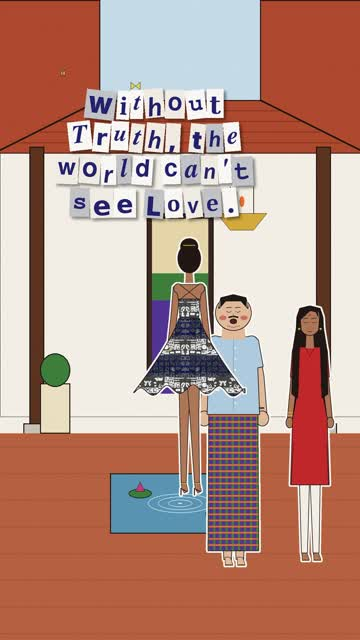
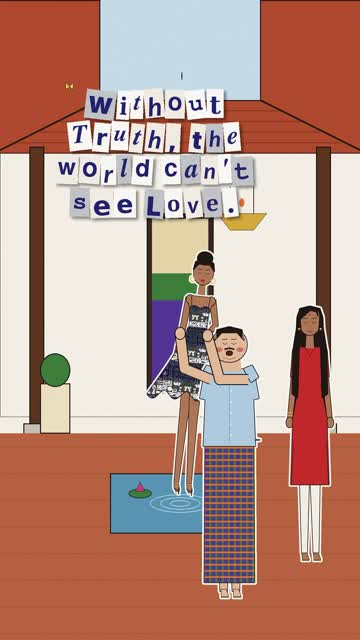
Reel 5: Dad lifts and twirls her, arms at her waist
Claude-Session: https://claude.ai/code/session_019PesBxQ4KYYmVcRBkqjBo9

Changed region(s): [[0.3667, 0.3438, 0.7639, 0.9375], [0.3667, 0.125, 0.3972, 0.1562], [0.1833, 0.125, 0.2139, 0.1562]]

diff --git a/reel5/render.py b/reel5/render.py
@@ -24,7 +24,7 @@ def q(x, s): return round(x / s) * s
 def girl(view, flare, spin, coat=None): return K.girl(view, flare, spin, coat)
 @lru_cache(maxsize=8)
 def BOY(w): return boy(w)
-MUM = elder("mum"); DAD = elder("dad"); DAD_L = elder("dad", True)
+MUM = elder("mum"); DAD = elder("dad"); DAD_L = elder("dad", True); DAD_UP = elder("dad", True, True)
 
 def heart(d, x, y, r, col=RED):
     d.ellipse((x - r, y - r * 0.7, x, y + r * 0.3), fill=col); d.ellipse((x, y - r * 0.7, x + r, y + r * 0.3), fill=col)
@@ -255,23 +255,48 @@ def shot_house(t):                                    # 32 - 36: out of the cab,
     paste(img, g, lerp(380, 540, k), lerp(1500, 1190, k) + 8 * abs(math.sin(u * 8)), scale=lerp(0.66, 0.38, k))
     return img
 
-def shot_court(t):                                    # 36 - 44: she runs to Dad; he lifts and twirls her
+@lru_cache(maxsize=64)
+def lifted(step):
+    """Dad holding her up by the waist, the pair as one cut-out; step 0..23 around the twirl."""
+    ang = step / 24 * 2 * math.pi
+    g = girl("front", 1.4, (step / 24) % 1)
+    dad = DAD_UP
+    grp = Image.new("RGBA", (1100, 2100), (0, 0, 0, 0))
+    dx0, dy0 = 600, 760                                            # Dad's cut-out (292 x 1249) in the group
+    P_ = lambda x, y: (dx0 + x, dy0 + y)
+    gs = g.resize((int(g.width * 0.86), int(g.height * 0.86)), Image.LANCZOS).rotate(-6, expand=True, resample=Image.BICUBIC)
+    wx, wy = P_(-20, 0)                                            # her waist: up beside his head, as in Della's photo
+    grp.alpha_composite(gs, (int(wx - gs.width / 2), int(wy - gs.height * 0.31)))
+    grp.alpha_composite(dad, (dx0, dy0))
+    d = ImageDraw.Draw(grp); SK = (228, 188, 156)
+    for pts in ([P_(62, 250), P_(-60, 200), P_(-80, 40)], [P_(230, 250), P_(100, 250), P_(45, 50)]):
+        for (x0, y0), (x1, y1) in zip(pts, pts[1:]):
+            d.line((x0, y0, x1, y1), fill=OUT, width=50)
+        for x, y in pts[1:-1]: d.ellipse((x - 25, y - 25, x + 25, y + 25), fill=OUT)
+        for (x0, y0), (x1, y1) in zip(pts, pts[1:]):
+            d.line((x0, y0, x1, y1), fill=SK, width=42)
+        for x, y in pts[1:-1]: d.ellipse((x - 21, y - 21, x + 21, y + 21), fill=SK)
+        hx, hy = pts[-1]
+        d.ellipse((hx - 25, hy - 29, hx + 25, hy + 29), fill=SK, outline=OUT, width=4)
+    sx = max(0.3, abs(math.cos(ang)))
+    out = grp.resize((max(1, int(grp.width * sx)), grp.height), Image.LANCZOS)
+    if math.cos(ang) < 0: out = out.transpose(Image.FLIP_LEFT_RIGHT)
+    return out
+
+def shot_court(t):                                    # 36 - 44: she runs to Dad; he picks her up and twirls her
     u = t - 36.0
     img = courtyard_live(COURT.copy(), t).convert("RGBA")
     paste(img, MUM, 930, 1300, scale=0.62)
-    run = ramp(u, 0.0, 1.4)
-    lift = ramp(u, 1.4, 2.2) * (1 - ramp(u, 6.6, 7.6))
-    spin_on = 1.9 < u < 7.0
-    paste(img, DAD_L if spin_on and int(u * 5) % 2 else DAD, 700, 1290, scale=0.66)
-    ang = (u - 1.9) * 2.2 * math.pi if spin_on else 0.0
-    view = "front" if math.cos(ang) >= 0 else "back"
-    flare = q(1.0 + 0.7 * lift, 0.1)
-    g = girl(view, flare, q((ang / 6.28) % 1, 1 / 12))
-    sx = max(0.35, abs(math.cos(ang)) ** 0.5) if spin_on else 1.0
-    gw = int(g.width * 0.6 * sx); gh = int(g.height * 0.6)
-    gs = g.resize((max(1, gw), gh), Image.LANCZOS)
-    gx = lerp(80, 580, run) + 60 * math.sin(ang) * lift
-    paste(img, gs, gx, 1300 - 200 * lift)
+    if u < 1.5 or u > 7.2:                            # run in / set down
+        k = ramp(u, 0.0, 1.4)
+        paste(img, DAD_L if u > 7.2 else DAD, 600, 1290, scale=0.66)
+        g = girl("front", 1.0, 0.0)
+        paste(img, g, lerp(80, 400, k) if u < 1.5 else 400, 1300, scale=0.6)
+        return img
+    lift = ramp(u, 1.5, 2.2) * (1 - ramp(u, 6.6, 7.2))
+    step = int(((u - 2.0) * 1.0 * 24) % 24) if u > 2.0 and u < 6.6 else 0
+    grp = lifted(step)
+    paste(img, grp, 560, 1230 - 60 * lift + 6 * math.sin(u * 6), scale=0.66)
     return img
 
 def shot_hug(t):                                      # 44 - 50: Mum hugs her tight. Just the two of them.

diff --git a/reel5/kochi.py b/reel5/kochi.py
@@ -155,7 +155,7 @@ def bag(bread=True):
     d.arc((60, 100, 140, 180), 180, 360, fill=OUT, width=4)
     return im
 
-def elder(kind, laugh=False):
+def elder(kind, laugh=False, lift=False):
     """Parents, about 50, drawn exactly like the girl (same body, face and outline).
     Mum: a mustard cotton kurti, off-white leggings, green dupatta, gold bangles.
     Dad: a half-sleeve shirt and a checked kaili lungi, a watch."""
@@ -173,8 +173,9 @@ def elder(kind, laugh=False):
         c.fill(_union(_limb([(380, 760), (374, 960), (374, 1290)], 64, 26), _limb([(420, 760), (426, 960), (430, 1290)], 64, 26)), WHITE)
     # arms
     ax = 0 if mum else 34                                                                   # Dad is broader
-    c.fill(_limb([(338 - ax / 2, 312), (322 - ax, 470), (304 - ax, 640)], 34 + ax * 0.8, 22 + ax * 0.6), sk); c.fill(_ell(302 - ax, 660, 16 + ax / 3, 24 + ax / 4), sk)
-    c.fill(_limb([(462 + ax / 2, 312), (478 + ax, 470), (496 + ax, 640)], 34 + ax * 0.8, 22 + ax * 0.6), sk); c.fill(_ell(498 + ax, 660, 16 + ax / 3, 24 + ax / 4), sk)
+    if not lift:
+     c.fill(_limb([(338 - ax / 2, 312), (322 - ax, 470), (304 - ax, 640)], 34 + ax * 0.8, 22 + ax * 0.6), sk); c.fill(_ell(302 - ax, 660, 16 + ax / 3, 24 + ax / 4), sk)
+     c.fill(_limb([(462 + ax / 2, 312), (478 + ax, 470), (496 + ax, 640)], 34 + ax * 0.8, 22 + ax * 0.6), sk); c.fill(_ell(498 + ax, 660, 16 + ax / 3, 24 + ax / 4), sk)
     if mum:
         kurti = (196, 40, 44)                                                                 # simple red kurti
         c.fill(_union(_poly([(334, 296), (466, 296), (474, 380), (452, 480), (482, 640), (492, 960), (308, 960), (318, 640), (348, 480), (326, 380)]),
@@ -219,6 +220,9 @@ def elder(kind, laugh=False):
     c.line([(400, 182), (396, 200), (402, 202)], dress.SKIN_SH, 2)
     if laugh: c.fill(_ell(400, 218, 13, 9), (90, 30, 30))
     else: c.line([(388, 216), (400, 221), (412, 216)], (120, 40, 40), 3)
+    if lift and not mum:   # arms are drawn by the scene, over her waist; here only the sleeve stubs
+        sh = (176, 206, 226)
+        for sx in (-1, 1): c.fill(_limb([(400 + sx * 82, 320), (400 + sx * 118, 300)], 70, 62), sh)
     rgb = c.rgb.resize((800, 1500), Image.LANCZOS); a = c.alpha.resize((800, 1500), Image.LANCZOS)
     fig = rgb.convert("RGBA"); fig.putalpha(a)
     pad = Image.new("RGBA", (830, 1530), (0, 0, 0, 0))
